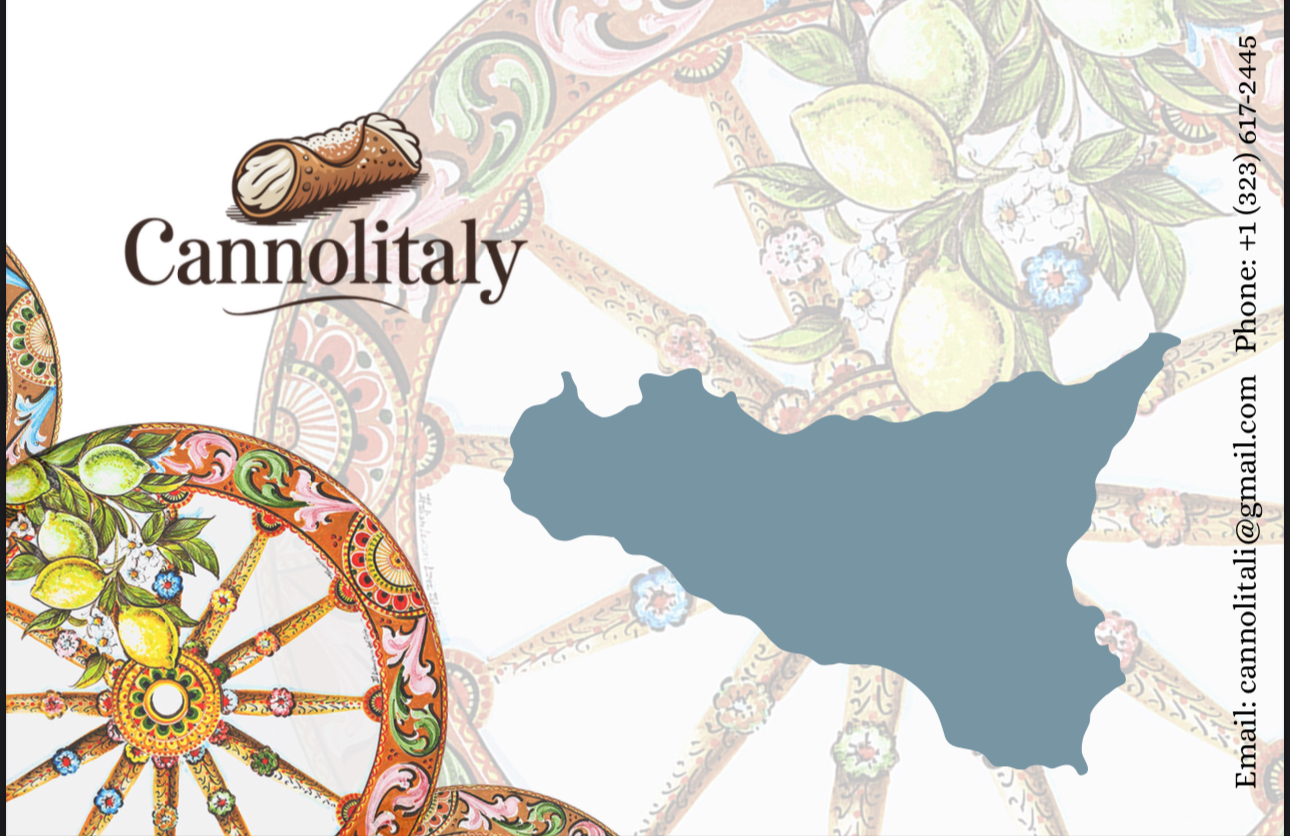
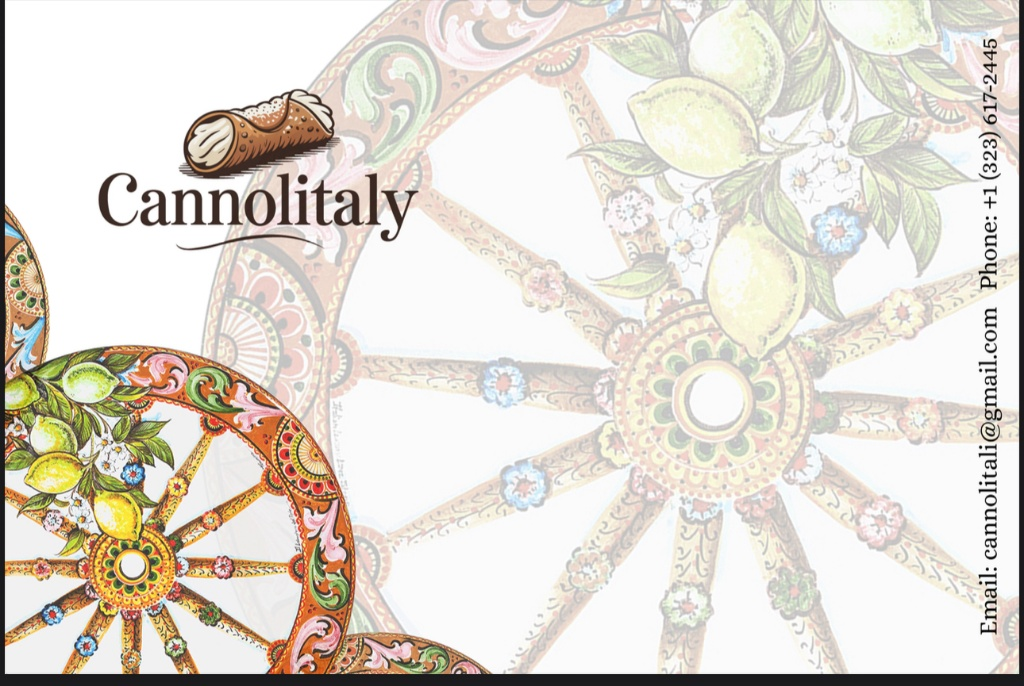
Actualizado  08 octubre

diff --git a/style.css b/style.css
@@ -137,12 +137,12 @@ section {
 }
 
 .logo img {
-    max-height: 85px;
+    max-height: 100px;
     transition: max-height 0.3s ease;
 }
 
 .main-header.scrolled .logo img {
-    max-height: 65px;
+    max-height: 80px;
 }
 
 .main-nav ul {
@@ -281,6 +281,7 @@ section {
     background-image: url('images/hero-background.jpg');
     background-size: cover;
     background-position: center;
+    background-attachment: fixed;
     text-align: center;
     color: var(--white);
 }
@@ -527,10 +528,10 @@ section {
         display: block;
     }
     .logo img {
-        max-height: 70px;
+        max-height: 85px;
     }
     .main-header.scrolled .logo img {
-        max-height: 55px;
+        max-height: 65px;
     }
     .header-left-cluster {
         gap: 20px;

diff --git a/index.html b/index.html
@@ -123,7 +123,7 @@
                 <h4>Contact Us</h4>
                 <p>
                     West Hollywood, CA<br>
-                    <a href="mailto:cannolitaly@gmail.com">cannolitaly@gmail.com</a><br>
+                    <a href="mailto:cannolitali@gmail.com">cannolitali@gmail.com</a><br>
                     <a href="tel:+3236172445">(323) 617-2445</a>
                 </p>
             </div>

diff --git a/shop.html b/shop.html
@@ -74,7 +74,7 @@
 
     <main>
         <section class="page-header">
-            <h1 data-aos="fade-up">Our Menu</h1>
+            <h1 data-aos="fade-up">Our Selection</h1>
         </section>
 
         <section id="shop-products">
